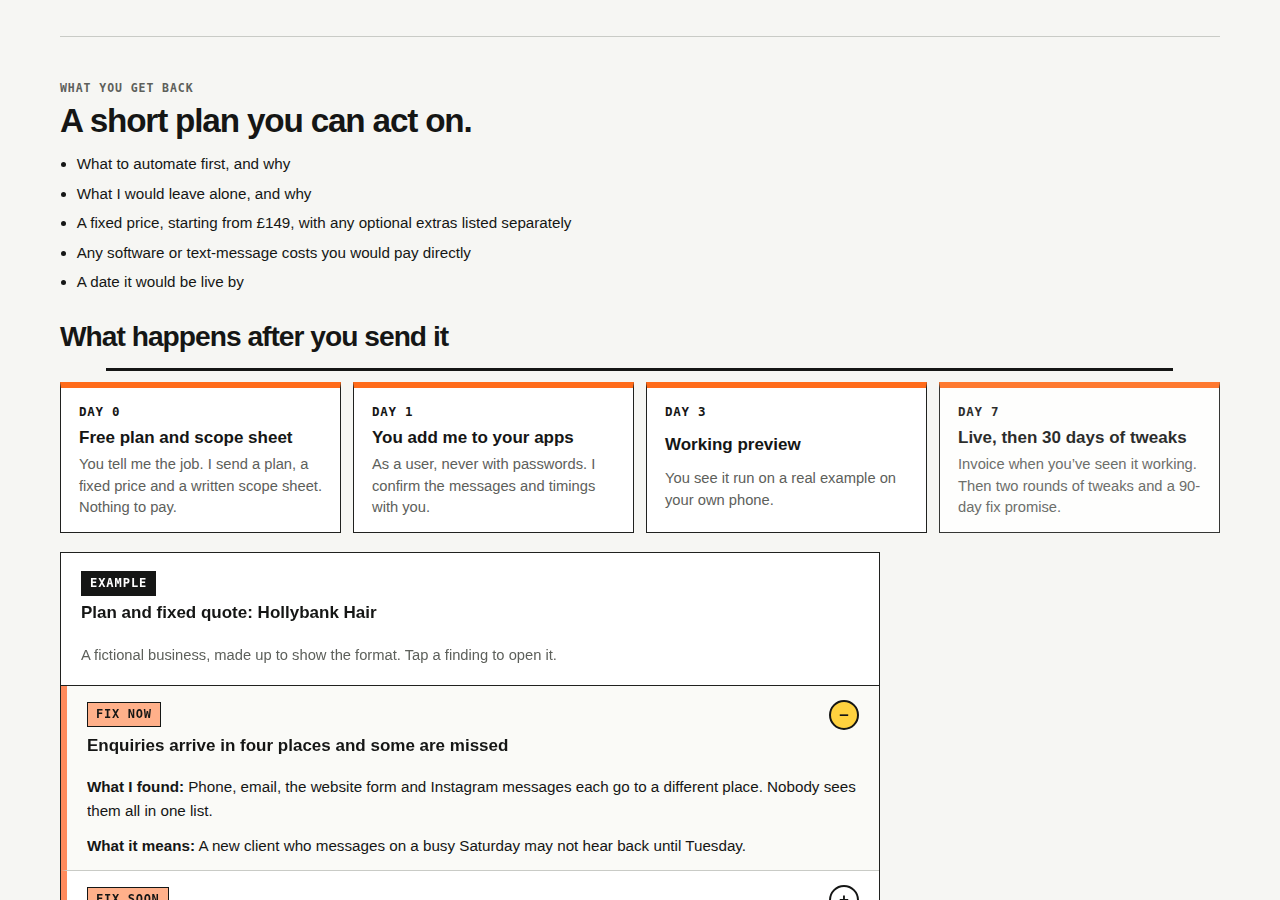
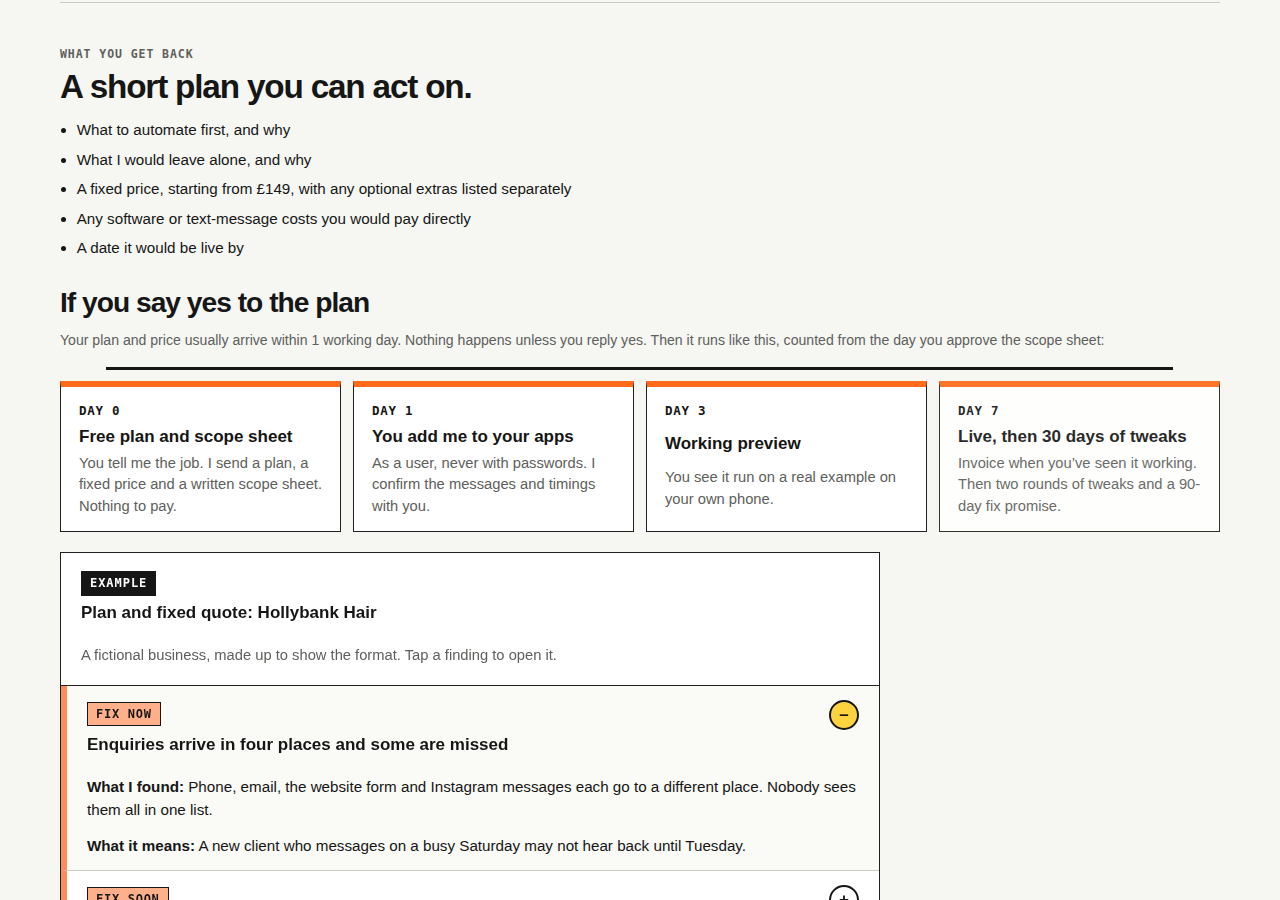
Free-plan timeline: frame it as after you say yes (Codex review on #122)
Claude-Session: https://claude.ai/code/session_01G7bGNyNCLcUAGsjZqt8Ai8

diff --git a/app/free-plan/page.tsx b/app/free-plan/page.tsx
@@ -81,7 +81,8 @@ export default function LeakCheckPage() {
         <ul className="mw-qw-list">
           {RETURN.map((item) => <li key={item}>{item}</li>)}
         </ul>
-        <h3 style={{ marginTop: 28 }}>What happens after you send it</h3>
+        <h3 style={{ marginTop: 28 }}>If you say yes to the plan</h3>
+        <p className="mw-qw-lead">Your plan and price usually arrive within {CHECK_REPLY_TIME}. Nothing happens unless you reply yes. Then it runs like this, counted from the day you approve the scope sheet:</p>
         <NextSteps />
         <div className="s-report-wrap"><SampleReport /></div>
         <p className="mw-qw-lead">Sometimes the answer is: &quot;This isn&apos;t worth automating yet.&quot; If the tool you already pay for can do it, I’ll tell you.</p>
